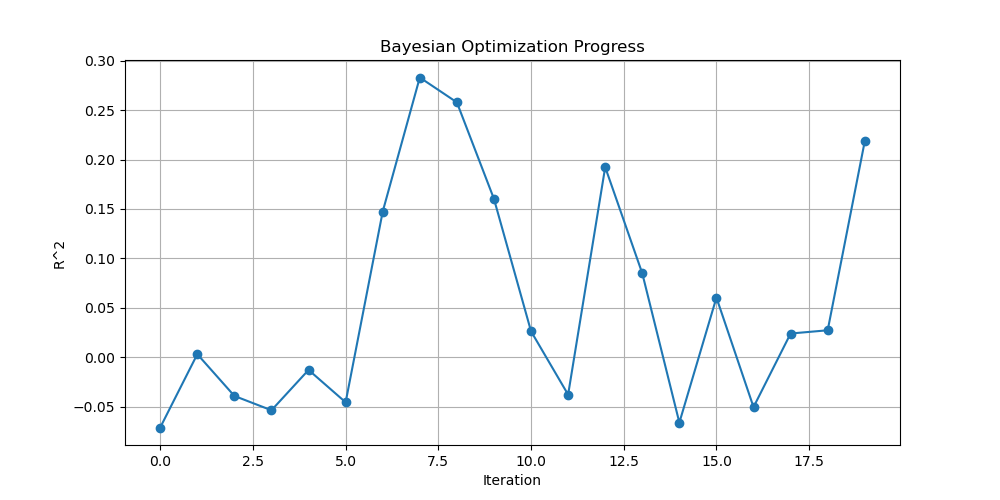
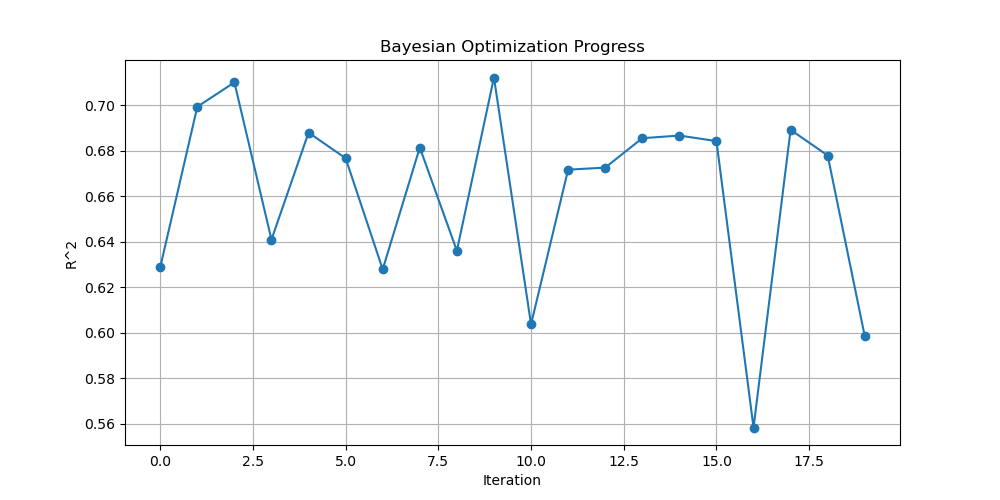
bayesian opt progress added

diff --git a/src/scripts/train.py b/src/scripts/train.py
@@ -59,7 +59,7 @@ if __name__ == "__main__":
     config = utils_2.load_config("configs/train_config.yaml")
 
     # Extract training parameters
-    test_size = config["training"]["test_size"]
+    train_size = config["training"]["train_size"]
     validation_size_within_train = config["training"]["validation_size_within_train"]
     batch_size = config["training"]["batch_size"]
     epochs = config["training"]["epochs"]
@@ -89,11 +89,13 @@ if __name__ == "__main__":
 
     X_train, X_test_ID, y_train, y_test_ID  = train_test_split(fingerprints, 
                                                                targets, 
-                                                               train_size=validation_size_within_train, 
+                                                               train_size=train_size, 
                                                                random_state=42)
 
     # Split the training set into training and validation sets
     X_train, X_val, y_train, y_val = train_test_split(X_train, y_train, test_size=validation_size_within_train, random_state=42) 
+
+    print(y_train.shape, y_val.shape, y_test_ID.shape)
 
     # Create DataLoader instances
     train_dataset = utils_2.ESOLDataset(X_train, y_train)

diff --git a/src/scripts/preprocess_data.py b/src/scripts/preprocess_data.py
@@ -12,7 +12,7 @@ if __name__ == "__main__":
     config = utils_2.load_config("configs/train_config.yaml")
 
     # Extract training parameters
-    test_size = config["training"]["test_size"]
+    test_size_for_clustering = config["training"]["test_size_for_clustering"]
 
 
     # Extract data paths
@@ -39,7 +39,7 @@ if __name__ == "__main__":
     targets = np.array([data.y.item() for data in dataset])
 
     # Split data
-    X_train, X_test, y_train, y_test = train_test_split(fingerprints, targets, test_size=test_size, random_state=42)
+    X_train, X_test, y_train, y_test = train_test_split(fingerprints, targets, test_size=test_size_for_clustering, random_state=42)
 
     # PCA
     pca = PCA(n_components=pca_n_components)
